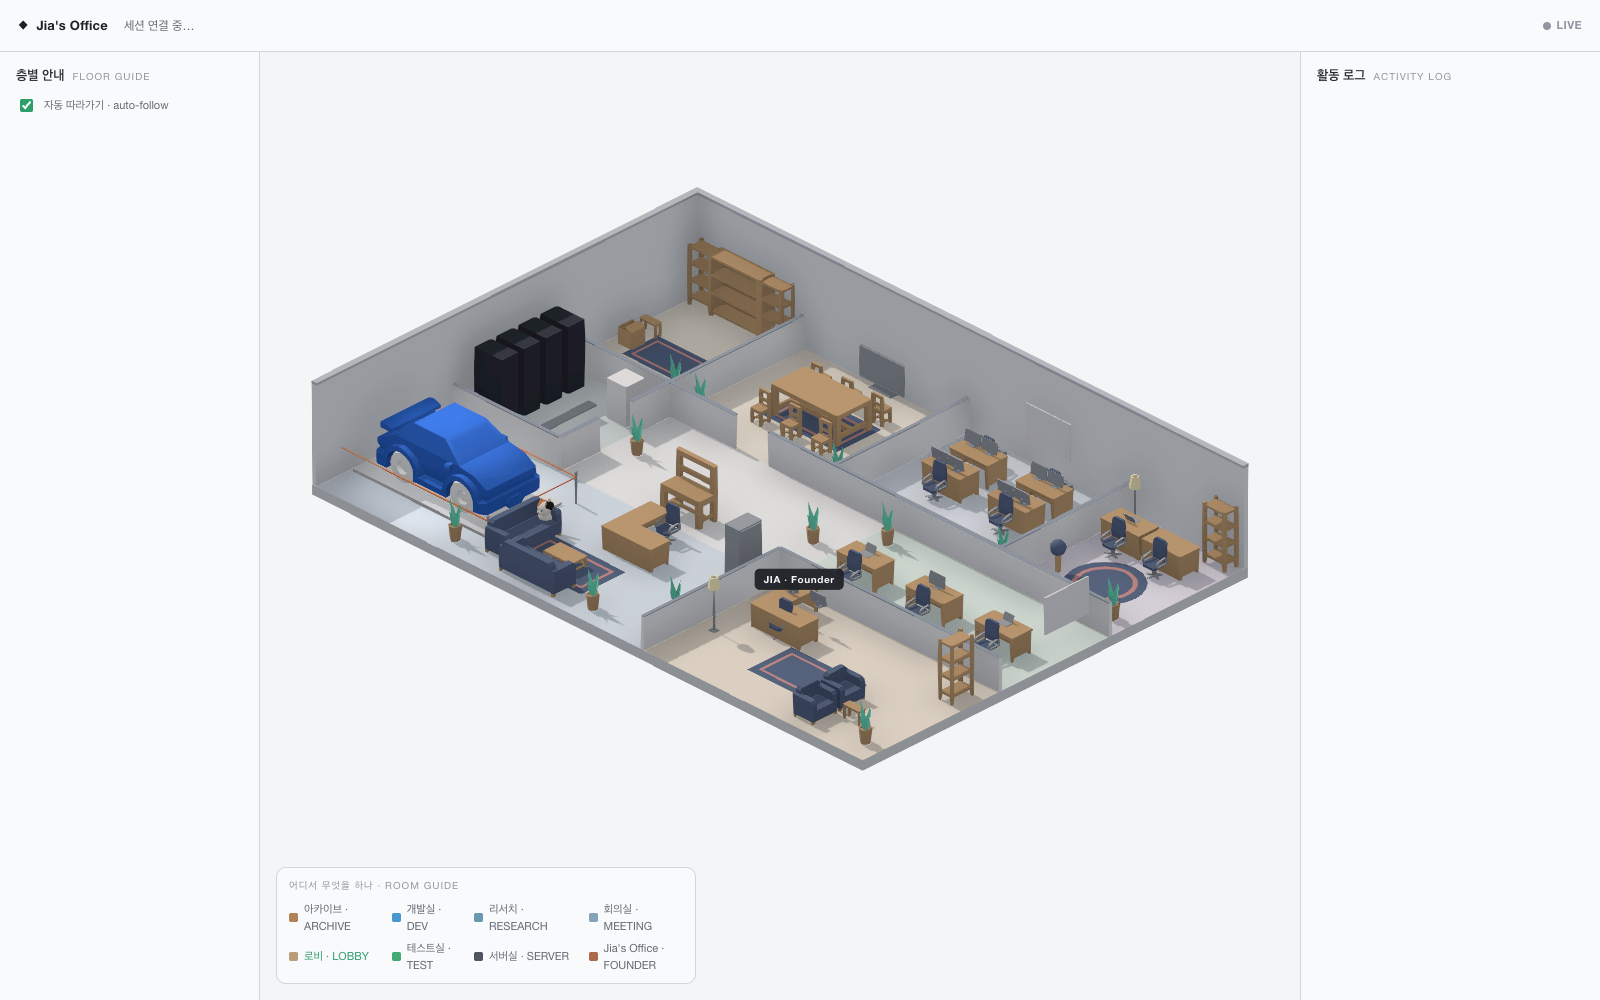
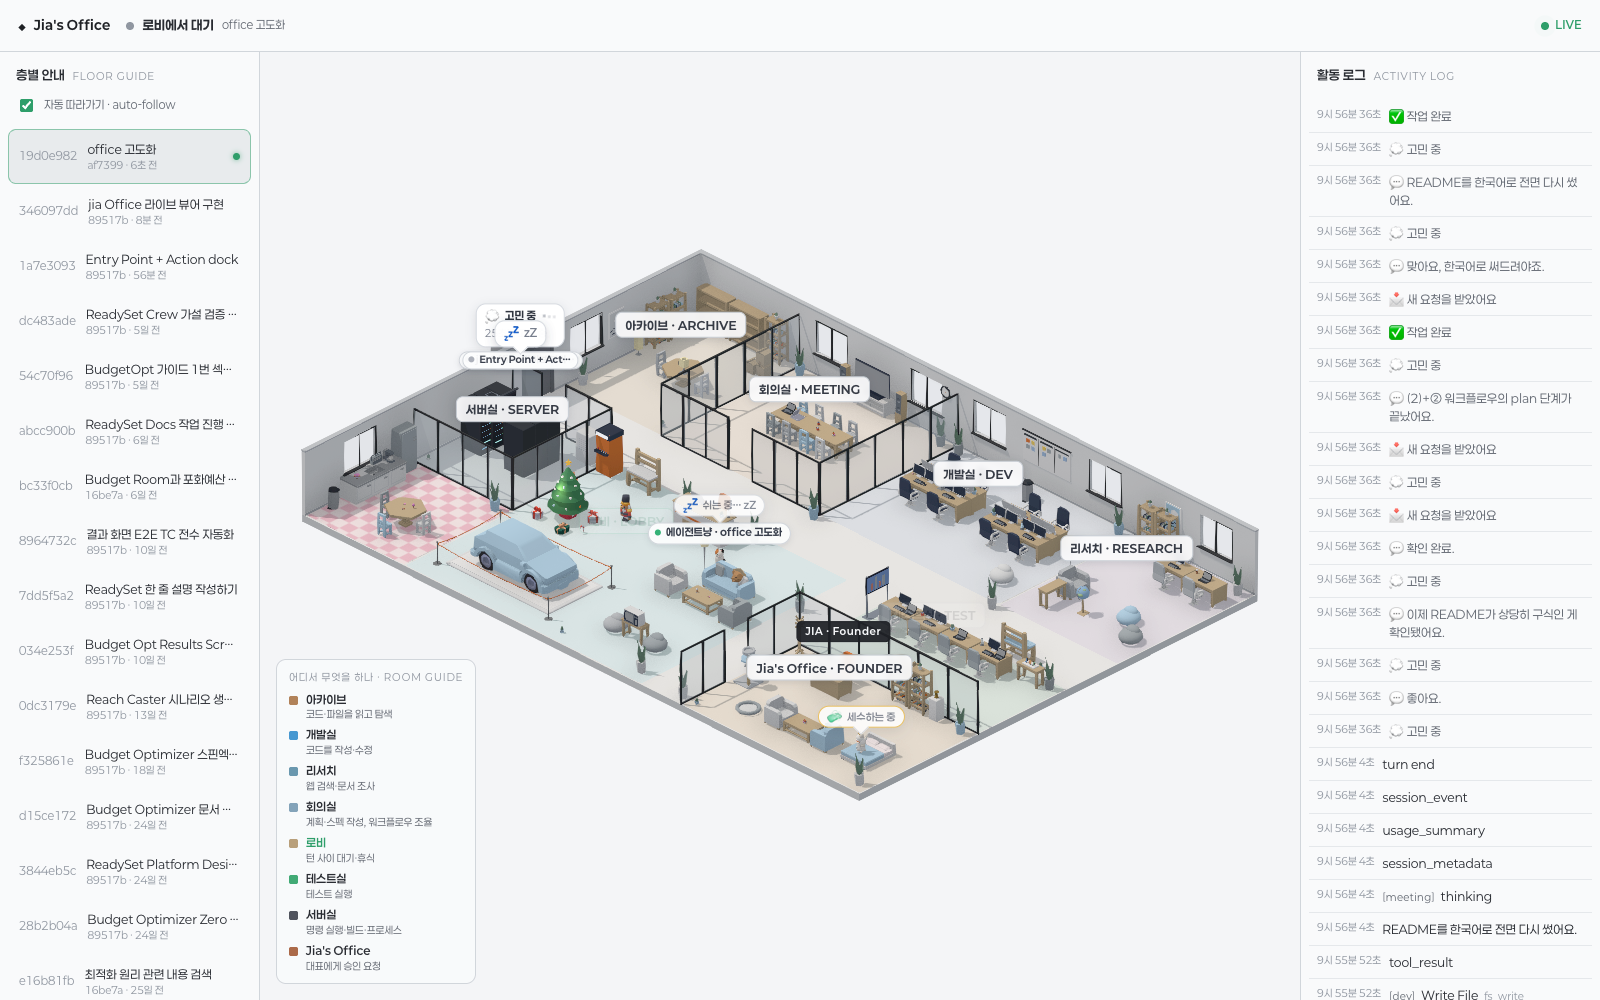
feat: add room-purpose legend descriptions and header status readout
ROOM GUIDE legend:
- add optional desc field to RoomRect; fill KO purpose for all 8 legend rooms
- buildLegend renders swatch + room name + description per cell (textContent only)
- legend-grid switched to single-column vertical list; add legend-name/legend-desc
  styles; .active still highlights the current room name in green

Header status readout (replaces removed count chips):
- #stat-chips now holds a state dot + status sentence + muted session name
- renderStats builds "<room>에서 <phrase>" from currentRoom + currentStatus
- status phrase reuses the SAME event signals as the speech bubble via
  statusKindFor (작업 중 / 대기 / 승인 대기 / 고민 중), updated in applyBubble and
  the resting path so header and bubble cannot drift
- dot turns signature green only when watchingLive() and not idle
- removed dead .stats/.stat chip CSS (incl. the dangling --accent reference)

Verified: cd web && npm run build -> tsc 0 errors, vite build ok.
node web/verify.mjs -> OVERLAP_ERRORS=0, no pageerror; docs/office-rebuild-main.png
shows the single-column legend with descriptions (로비 active in green) and the
header one-line readout '로비에서 대기 · office 고도화'.

diff --git a/web/src/main.ts b/web/src/main.ts
@@ -36,8 +36,10 @@ function scheduleRest(ms: number): void {
   idleTimer = setTimeout(() => {
     if (!watchingLive()) return; // never nap while browsing a past session
     resting = true;
+    currentStatus = 'idle'; // napping on the lobby sofa → header reads 대기
     office.setIdle(true);
     office.showBubble({ mode: 'sleep', icon: '💤', title: '쉬는 중… zZ', since: Date.now() });
+    renderStats();
   }, ms);
 }
 function noteActivity(ev?: ActivityEvent): void {
@@ -58,38 +60,47 @@ let sessions: SessionInfo[] = [];
 let liveSessionId: string | null = null;
 let activeSessionId = '';
 
-// ---- running stats (현황) ----------------------------------------------------
-// Aggregated per active session; reset on catch-up when the session switches.
-const statEls = {
-  actions: document.getElementById('stat-actions')!,
-  edits: document.getElementById('stat-edits')!,
-  tests: document.getElementById('stat-tests')!,
-  commits: document.getElementById('stat-commits')!,
-  room: document.getElementById('stat-room')!,
+// ---- header status readout --------------------------------------------------
+// A single-line sentence of the CURRENT situation (room + what the agent is
+// doing + session name), replacing the old numeric count chips. The status
+// phrase reuses the SAME event signals that drive the speech bubble (bubbleFor /
+// thinkingSince / resting) so the header and the cat's bubble can never drift.
+const statusEls = {
+  dot: document.getElementById('status-dot')!,
+  text: document.getElementById('status-text')!,
+  session: document.getElementById('status-session')!,
 };
-const stats = { actions: 0, edits: 0, tests: 0, commits: 0 };
-const EDIT_TOOLS = new Set(['str_replace', 'fs_write', 'fs_append']);
-function resetStats(): void {
-  stats.actions = stats.edits = stats.tests = stats.commits = 0;
-  renderStats();
-}
-function tallyEvent(ev: ActivityEvent): void {
-  if (ev.kind === 'tool_call') {
-    stats.actions++;
-    if (ev.tool && EDIT_TOOLS.has(ev.tool)) stats.edits++;
-  }
-  if (ev.kind === 'tool_result') {
-    if (ev.tag === 'test') stats.tests++;
-    if (ev.tag === 'commit' && ev.ok) stats.commits++;
+type StatusKind = 'work' | 'idle' | 'wait' | 'think';
+let currentStatus: StatusKind = 'idle';
+const STATUS_PHRASE: Record<StatusKind, string> = {
+  work: '작업 중', idle: '대기', wait: '승인 대기', think: '고민 중',
+};
+/** Collapse the same `ev.kind` signals bubbleFor switches on into a header
+    status kind. Returns undefined to keep the current status (e.g. a bare
+    assistant line that only updates the bubble text, not the state). */
+function statusKindFor(ev: ActivityEvent): StatusKind | undefined {
+  switch (ev.kind) {
+    case 'assistant':
+      return ev.label === 'thinking' ? 'think' : undefined;
+    case 'tool_call':
+      return 'work';
+    case 'pending_interaction':
+      return 'wait';
+    case 'user':
+    case 'turn_end':
+      return 'idle';
+    default:
+      return undefined;
   }
 }
 function renderStats(): void {
-  statEls.actions.textContent = String(stats.actions);
-  statEls.edits.textContent = String(stats.edits);
-  statEls.tests.textContent = String(stats.tests);
-  statEls.commits.textContent = String(stats.commits);
-  const r = currentRoom in ROOMS ? ROOMS[currentRoom].label : '—';
-  statEls.room.textContent = r;
+  const roomLabel = currentRoom in ROOMS ? ROOMS[currentRoom].label : '—';
+  statusEls.text.textContent = `${roomLabel}에서 ${STATUS_PHRASE[currentStatus]}`;
+  const active = sessions.find((s) => s.sessionId === activeSessionId);
+  statusEls.session.textContent = active ? active.name : ''; // untrusted → textContent
+  // Green only when the LIVE session is actively working/thinking/waiting.
+  const live = watchingLive() && currentStatus !== 'idle';
+  statusEls.dot.classList.toggle('live', live);
 }
 
 // ---- legend -----------------------------------------------------------------
@@ -108,8 +119,15 @@ function buildLegend(): void {
     const sw = document.createElement('span');
     sw.className = 'legend-swatch';
     sw.style.background = LEGEND_SWATCH[id] ?? 'transparent';
-    const txt = document.createElement('span');
-    txt.textContent = `${r.label} · ${r.sub}`;
+    const txt = document.createElement('div');
+    txt.className = 'legend-text';
+    const name = document.createElement('span');
+    name.className = 'legend-name';
+    name.textContent = r.label;
+    const desc = document.createElement('span');
+    desc.className = 'legend-desc';
+    desc.textContent = r.desc ?? '';
+    txt.append(name, desc);
     cell.append(sw, txt);
     legendGrid.append(cell);
   }
@@ -244,6 +262,10 @@ function bubbleFor(ev: ActivityEvent): BubbleInfo | null | undefined {
 function applyBubble(ev: ActivityEvent): void {
   const next = bubbleFor(ev);
   if (next !== undefined) office.showBubble(next);
+  // Keep the header status in lockstep with the bubble: same event, same
+  // classifier family. undefined = leave the current status untouched.
+  const kind = statusKindFor(ev);
+  if (kind !== undefined) currentStatus = kind;
   // Also persist the bubble line into the activity log so thoughts/状態 don't
   // vanish — but skip events addActivity already logs verbatim (tool_call/user)
   // and collapse repeats (e.g. continuous "고민 중").
@@ -302,13 +324,13 @@ const socket = new OfficeSocket({
     liveSessionId = f.liveSessionId;
     activeSessionId = f.sessionId;
     activityList.textContent = '';
-    resetStats(); // new session (or reconnect) → recount from its catch-up
-    for (const ev of f.events) { addActivity(ev); tallyEvent(ev); }
+    for (const ev of f.events) { addActivity(ev); }
     const active = sessions.find((s) => s.sessionId === activeSessionId);
     sessionNameEl.textContent = active ? active.name : '세션';
     office.setAgentName(active ? `에이전트냥 · ${active.name}` : '에이전트냥');
     // restore the bubble from recent history (an old, finished session stays quiet)
     thinkingSince = 0;
+    currentStatus = 'idle'; // reset; the replay below re-derives it for the live session
     office.showBubble(null);
     // Replay recent bubbles only for the LIVE session. For a past session we're
     // just browsing, keep the cat neutral (no stale "완료 / 쉬는 중" bubble).
@@ -327,7 +349,6 @@ const socket = new OfficeSocket({
   onEvent: (f) => {
     noteActivity(f.event); // wakes a napping agent first
     addActivity(f.event);
-    tallyEvent(f.event);
     applyBubble(f.event);
     react(f.event);
     setRoom(f.currentRoom);

diff --git a/web/src/style.css b/web/src/style.css
@@ -80,35 +80,34 @@ body {
   white-space: nowrap; overflow: hidden; text-overflow: ellipsis;
 }
 
-/* header running-stats — minimal, borderless, separated by thin dividers
-   (Linear/Vercel-style metric row). Number on top, small uppercase label under. */
-.stats {
+/* header status readout — a single-line sentence of the current situation
+   (room + what the agent is doing) + a muted session name. Replaces the old
+   numeric count chips. Green on the dot ONLY when the live session is active. */
+.status {
   flex: 1;
-  display: flex; align-items: stretch; gap: 0;
-  overflow-x: auto;
+  min-width: 0;
+  display: flex; align-items: center; gap: 8px;
+  overflow: hidden;
 }
-.stat {
-  display: flex; flex-direction: column; justify-content: center;
-  gap: 1px;
-  padding: 0 18px;
-  white-space: nowrap;
-  border-left: 1px solid hsl(var(--border));
+.status-dot {
+  width: 8px; height: 8px; border-radius: 9999px; flex: none;
+  background: hsl(var(--faint));
 }
-.stat:first-child { border-left: 0; padding-left: 4px; }
-.stat b {
-  font-size: 16px; font-weight: 650; line-height: 1;
-  font-variant-numeric: tabular-nums;
-  color: hsl(var(--fg));
+.status-dot.live {
+  background: hsl(var(--green));
+  box-shadow: 0 0 0 0 hsl(var(--green) / 0.6);
+  animation: pulse 1.8s ease-out infinite;
 }
-.stat i {
-  font-style: normal; font-size: 9px; font-weight: 600;
-  letter-spacing: 0.8px; text-transform: uppercase;
-  color: hsl(var(--faint, var(--muted)));
-}
-.stat.stat-room { margin-left: auto; }
-.stat.stat-room b {
+.status-text {
   font-size: 13px; font-weight: 700;
-  color: hsl(var(--accent, 24 80% 55%));
+  color: hsl(var(--fg));
+  white-space: nowrap; flex: none;
+}
+.status-session {
+  font-size: 11px;
+  color: hsl(var(--muted));
+  white-space: nowrap; overflow: hidden; text-overflow: ellipsis;
+  min-width: 0;
 }
 .live-badge {
   display: flex; align-items: center; gap: 6px;
@@ -359,12 +358,27 @@ body {
   border: 1px solid hsl(var(--border));
   border-radius: 10px;
   padding: 10px 12px;
-  max-width: 420px;
+  max-width: 250px;
 }
 .legend-head { font-size: 10px; letter-spacing: 1px; color: hsl(var(--faint)); margin-bottom: 8px; }
 .legend-grid {
-  display: grid; grid-template-columns: repeat(4, auto); gap: 6px 14px;
+  display: grid; grid-template-columns: 1fr; gap: 7px;
 }
-.legend-cell { display: flex; align-items: center; gap: 6px; font-size: 11px; color: hsl(var(--muted)); }
-.legend-swatch { width: 9px; height: 9px; border-radius: 2px; flex: none; }
-.legend-cell.active { color: hsl(var(--green)); }
+.legend-cell {
+  display: flex; align-items: flex-start; gap: 8px;
+}
+.legend-swatch {
+  width: 9px; height: 9px; border-radius: 2px; flex: none;
+  margin-top: 3px;
+}
+.legend-text { display: flex; flex-direction: column; gap: 1px; min-width: 0; }
+.legend-name {
+  font-size: 11.5px; font-weight: 600; line-height: 1.3;
+  color: hsl(var(--fg));
+}
+.legend-desc {
+  font-size: 10px; line-height: 1.3;
+  color: hsl(var(--muted));
+  word-break: keep-all;
+}
+.legend-cell.active .legend-name { color: hsl(var(--green)); }

diff --git a/web/src/rooms.ts b/web/src/rooms.ts
@@ -27,20 +27,21 @@ export interface RoomRect {
   id: RoomId;
   label: string; // KO
   sub: string;   // EN
+  desc?: string; // KO one-line purpose (legend rooms only; layout-only rooms omit)
 }
 
 /** Legend/display metadata. Keyed by the ids the ROOM GUIDE shows. corridor and
     founder are layout-only, so they are NOT part of the legend set, but are kept
     resolvable for `room in ROOMS` guards. */
 export const ROOMS: Record<RoomId, RoomRect> = {
-  archive:  { id: 'archive',  label: '아카이브', sub: 'ARCHIVE' },
-  dev:      { id: 'dev',      label: '개발실',   sub: 'DEV' },
-  research: { id: 'research', label: '리서치',   sub: 'RESEARCH' },
-  meeting:  { id: 'meeting',  label: '회의실',   sub: 'MEETING' },
-  lobby:    { id: 'lobby',    label: '로비',     sub: 'LOBBY' },
-  test:     { id: 'test',     label: '테스트실', sub: 'TEST' },
-  server:   { id: 'server',   label: '서버실',   sub: 'SERVER' },
-  po:       { id: 'po',       label: "Jia's Office", sub: 'FOUNDER' },
+  archive:  { id: 'archive',  label: '아카이브', sub: 'ARCHIVE',  desc: '코드·파일을 읽고 탐색' },
+  dev:      { id: 'dev',      label: '개발실',   sub: 'DEV',      desc: '코드를 작성·수정' },
+  research: { id: 'research', label: '리서치',   sub: 'RESEARCH', desc: '웹 검색·문서 조사' },
+  meeting:  { id: 'meeting',  label: '회의실',   sub: 'MEETING',  desc: '계획·스펙 작성, 워크플로우 조율' },
+  lobby:    { id: 'lobby',    label: '로비',     sub: 'LOBBY',    desc: '턴 사이 대기·휴식' },
+  test:     { id: 'test',     label: '테스트실', sub: 'TEST',     desc: '테스트 실행' },
+  server:   { id: 'server',   label: '서버실',   sub: 'SERVER',   desc: '명령 실행·빌드·프로세스' },
+  po:       { id: 'po',       label: "Jia's Office", sub: 'FOUNDER', desc: '대표에게 승인 요청' },
   founder:  { id: 'founder',  label: "Jia's Office", sub: 'FOUNDER' },
   corridor: { id: 'corridor', label: '복도',     sub: 'CORRIDOR' },
 };

diff --git a/web/index.html b/web/index.html
@@ -14,12 +14,10 @@
           <span class="brand-title">Jia's Office</span>
         </div>
         <div class="session-name" id="session-name" hidden></div>
-        <div class="stats" id="stat-chips">
-          <span class="stat"><b id="stat-actions">0</b><i>작업</i></span>
-          <span class="stat"><b id="stat-edits">0</b><i>파일수정</i></span>
-          <span class="stat"><b id="stat-tests">0</b><i>테스트</i></span>
-          <span class="stat"><b id="stat-commits">0</b><i>커밋</i></span>
-          <span class="stat stat-room"><b id="stat-room">—</b><i>현재 위치</i></span>
+        <div class="status" id="stat-chips">
+          <span class="status-dot" id="status-dot"></span>
+          <span class="status-text" id="status-text">—</span>
+          <span class="status-session" id="status-session"></span>
         </div>
         <div class="live-badge" id="live-badge" data-live="false">
           <span class="live-dot"></span><span>LIVE</span>
